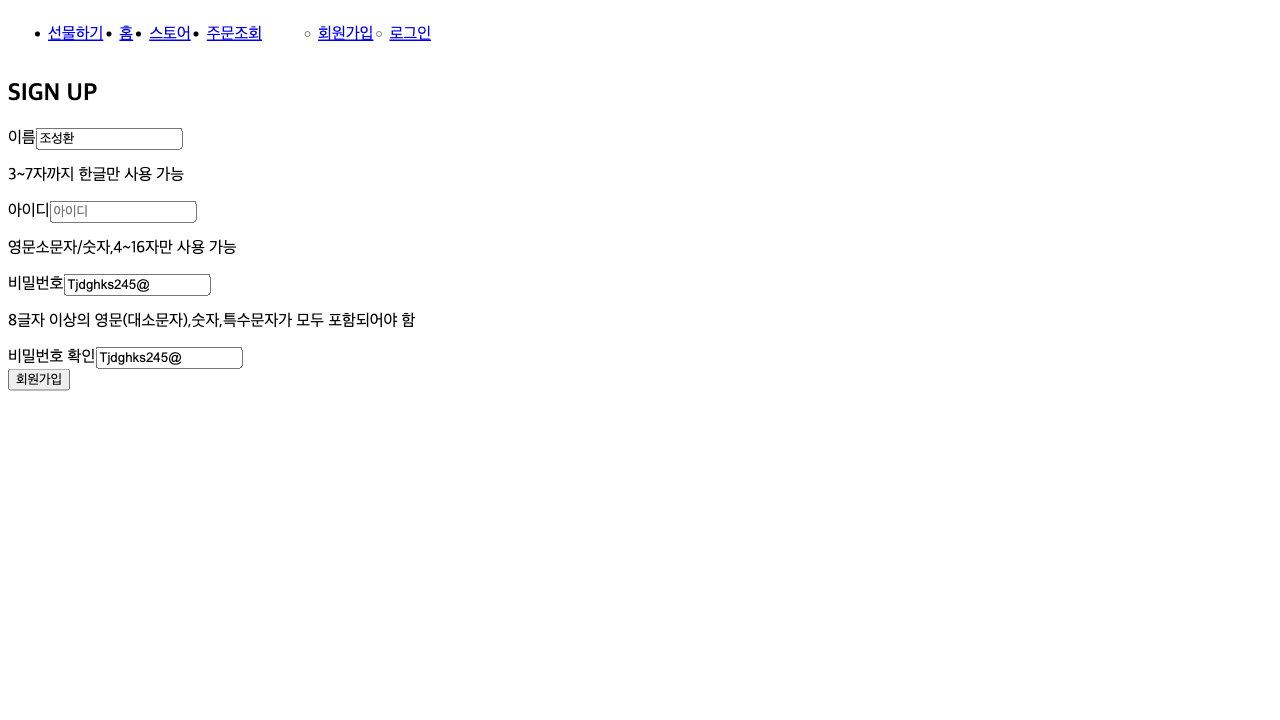
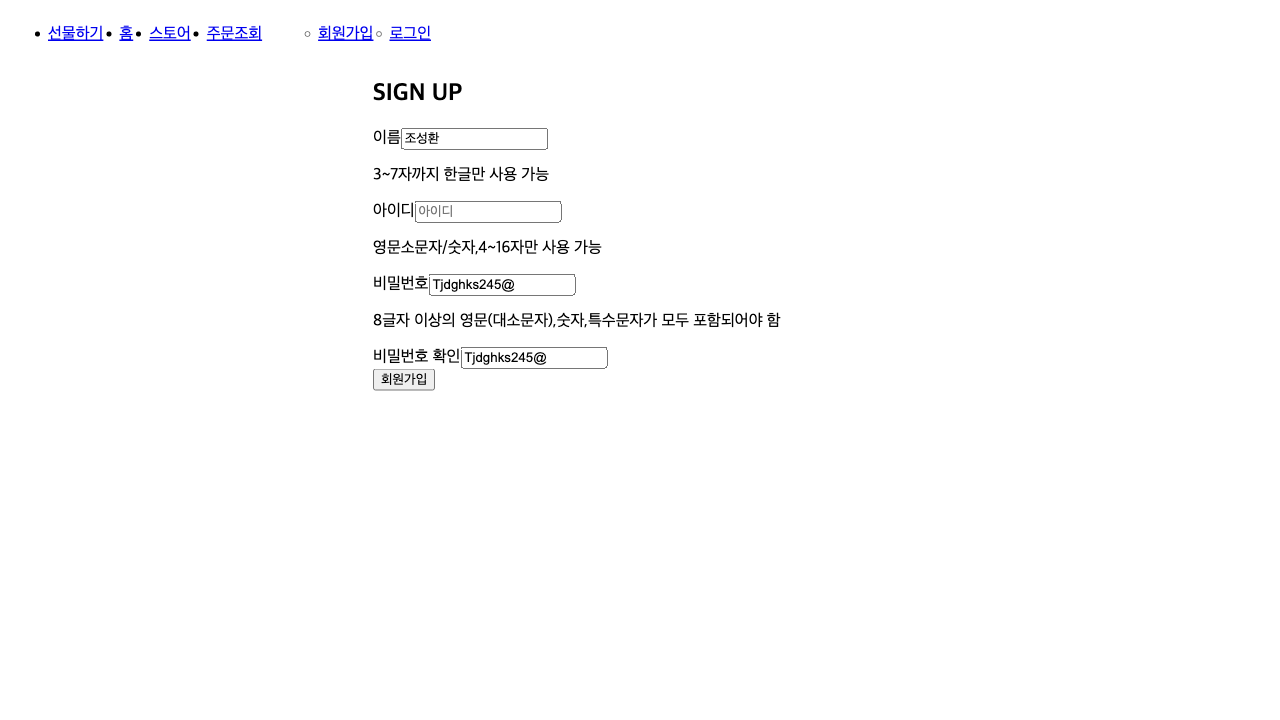
상품 상세보기 구현

diff --git a/src/components/Products.jsx b/src/components/Products.jsx
@@ -1,12 +1,24 @@
+import { useNavigate } from 'react-router-dom';
 import styled from 'styled-components';
 import useProductStore from '../hooks/useProductStore';
 import numberFormat from '../utils/NumberFormat';
+
+const Container = styled.div`
+  width: 80%;
+`;
 
 const UL = styled.ul`
     display: flex;
 `;
 
+const Image = styled.img`
+  background-repeat: no-repeat;
+  background-size: contain;
+`;
+
 export default function Products() {
+  const navigate = useNavigate();
+
   const productStore = useProductStore();
 
   const { products } = productStore;
@@ -15,15 +27,31 @@ export default function Products() {
     return <p>상품이 존재하지 않습니다</p>;
   }
 
+  const handleClickProduct = (productid) => {
+    navigate(`/products/${productid}`, {
+      state: {
+        productid,
+      },
+    });
+  };
+
   return (
-    <div>
+    <Container>
       <p>인기선물을 한 자리에 모았어요</p>
-      {/* product는 제조사를가지고 있겠고 상품 설명이랑 가격? 이렇게 가지고 있을라나?
-      사진은 어떻게 하지?  */}
       <UL>
         {products.map((product) => (
           <li key={product.id}>
-            <button type="button">
+            <button
+              type="button"
+              onClick={() => handleClickProduct(product.id)}
+            >
+              <Image
+                src="https://cdn.pixabay.com/photo/2022/09/28/05/53/squirrel-7484292_960_720.jpg"
+                // src={productImage(product.id)}
+                alt="product123"
+                width="50px"
+                height="50px"
+              />
               {product.company}
               <p>
                 {product.option}
@@ -36,6 +64,6 @@ export default function Products() {
           </li>
         ))}
       </UL>
-    </div>
+    </Container>
   );
 }

diff --git a/src/components/App.jsx b/src/components/App.jsx
@@ -1,34 +1,46 @@
 import { useEffect } from 'react';
 import { Route, Routes } from 'react-router-dom';
+import styled from 'styled-components';
 import { useLocalStorage } from 'usehooks-ts';
 import HomePage from '../pages/HomePage';
 import LoginPage from '../pages/LoginPage';
+import ProductPage from '../pages/ProductPage';
 import ProductsPage from '../pages/ProductsPage';
 import SignupCompletePage from '../pages/SignupCompletePage';
 import SignupPage from '../pages/SignupPage';
 import { apiService } from '../services/ApiService';
 import Header from './Header';
 
+const Main = styled.main`
+  width: 90%;
+  height: 100%;
+  display: flex;
+  justify-content: center;
+`;
+
 export default function App() {
   const [accessToken] = useLocalStorage('accessToken', '');
 
   useEffect(() => {
     apiService.setAccessToken(accessToken);
-    apiService.setAmount(apiService.amount);
   }, []);
 
   return (
     <div>
       <Header />
-      <main>
+      <Main>
         <Routes>
           <Route path="/" element={<HomePage />} />
           <Route path="/login" element={<LoginPage />} />
           <Route path="/signup" element={<SignupPage />} />
           <Route path="/signupcomplete" element={<SignupCompletePage />} />
           <Route path="/products" element={<ProductsPage />} />
+          <Route
+            path="/products/:productId"
+            element={<ProductPage />}
+          />
         </Routes>
-      </main>
+      </Main>
     </div>
   );
 }

diff --git a/src/utils/Image.js b/src/utils/Image.js
@@ -1,0 +1,37 @@
+import image1 from '../assets/Iphone.jpeg';
+
+export default function productImage(productId) {
+  if (productId === 1) {
+    return image1;
+  }
+
+  if (productId === 2) {
+    return '../assets/s22.jpeg';
+  }
+
+  if (productId === 3) {
+    return '../assets/macbook.jpeg';
+  }
+
+  if (productId === 4) {
+    return '../assets/그램.jpeg';
+  }
+
+  if (productId === 5) {
+    return '../assets/드러그옴므.jpeg';
+  }
+
+  if (productId === 6) {
+    return '../assets/바밀로고래.jpg';
+  }
+
+  if (productId === 7) {
+    return '../assets/바밀로키보드.jpg';
+  }
+
+  if (productId === 8) {
+    return '../assets/시그니엘 레지던스.png';
+  }
+
+  return 1;
+}

diff --git a/src/pages/ProductPage.jsx b/src/pages/ProductPage.jsx
@@ -1,0 +1,24 @@
+import { useEffect } from 'react';
+import { useLocation, useParams } from 'react-router-dom';
+import Product from '../components/Product';
+import useProductStore from '../hooks/useProductStore';
+
+export default function ProductPage() {
+  const productStore = useProductStore();
+
+  const { productId } = useParams();
+
+  //   const location = useLocation();
+
+  //   const productId = location.state !== null
+  //     ? location.state.productId
+  //     : Number(location.pathname.split('/')[2]);
+
+  useEffect(() => {
+    productStore.fetchProduct(productId);
+  }, []);
+
+  return (
+    <Product />
+  );
+}

diff --git a/src/components/Product.jsx b/src/components/Product.jsx
@@ -1,0 +1,22 @@
+import useProductStore from '../hooks/useProductStore';
+
+export default function Product() {
+  const productStore = useProductStore();
+
+  const { product } = productStore;
+  console.log(product);
+  return (
+    <div>
+      <p>Hello, world</p>
+      <p>{product.name}</p>
+      <p>{product.option}</p>
+      <p>{product.price}</p>
+      <p>{product.company}</p>
+      <p>{product.description}</p>
+      <p>
+        총 상품금액:
+        {product.price * 2}
+      </p>
+    </div>
+  );
+}

diff --git a/src/stores/ProductStore.js b/src/stores/ProductStore.js
@@ -3,8 +3,17 @@ import { apiService } from '../services/ApiService';
 export default class ProductStore {
   constructor() {
     this.products = [];
+    this.product = {};
 
     this.listeners = new Set();
+  }
+
+  async fetchProduct(productId) {
+    // this.product = {};
+    // this.publish();
+
+    this.product = await apiService.fetchProduct(productId);
+    this.publish();
   }
 
   async fetchProducts() {

diff --git a/src/services/ApiService.js b/src/services/ApiService.js
@@ -48,6 +48,15 @@ export default class ApiService {
     const { products } = data;
     return products;
   }
+
+  async fetchProduct(productId) {
+    const url = `${baseurl}/products/${productId}`;
+    const { data } = await axios.get(url);
+
+    const product = data;
+    console.log(product);
+    return product;
+  }
 }
 
 export const apiService = new ApiService();

diff --git a/tests/Signup_test.js b/tests/Signup_test.js
@@ -113,5 +113,5 @@ Scenario('이미 있는 아이디로 회원가입을 진행할 경우', ({ I }) 
 
   I.click('button[name="submit-button"]');
 
-  I.see('해당 아이디는 사용할 수 없습니다');
+  I.see('해당 아이디는 사용할 수 없습니다'); 
 });

diff --git a/src/styles/GlobalStyle.js b/src/styles/GlobalStyle.js
@@ -1,0 +1,13 @@
+import { createGlobalStyle } from 'styled-components';
+
+const GlobalStyle = createGlobalStyle`
+*{
+ box-sizing: border-box;
+}
+
+ a {   
+   text-decoration: none;
+ }
+`;
+
+export default GlobalStyle;
